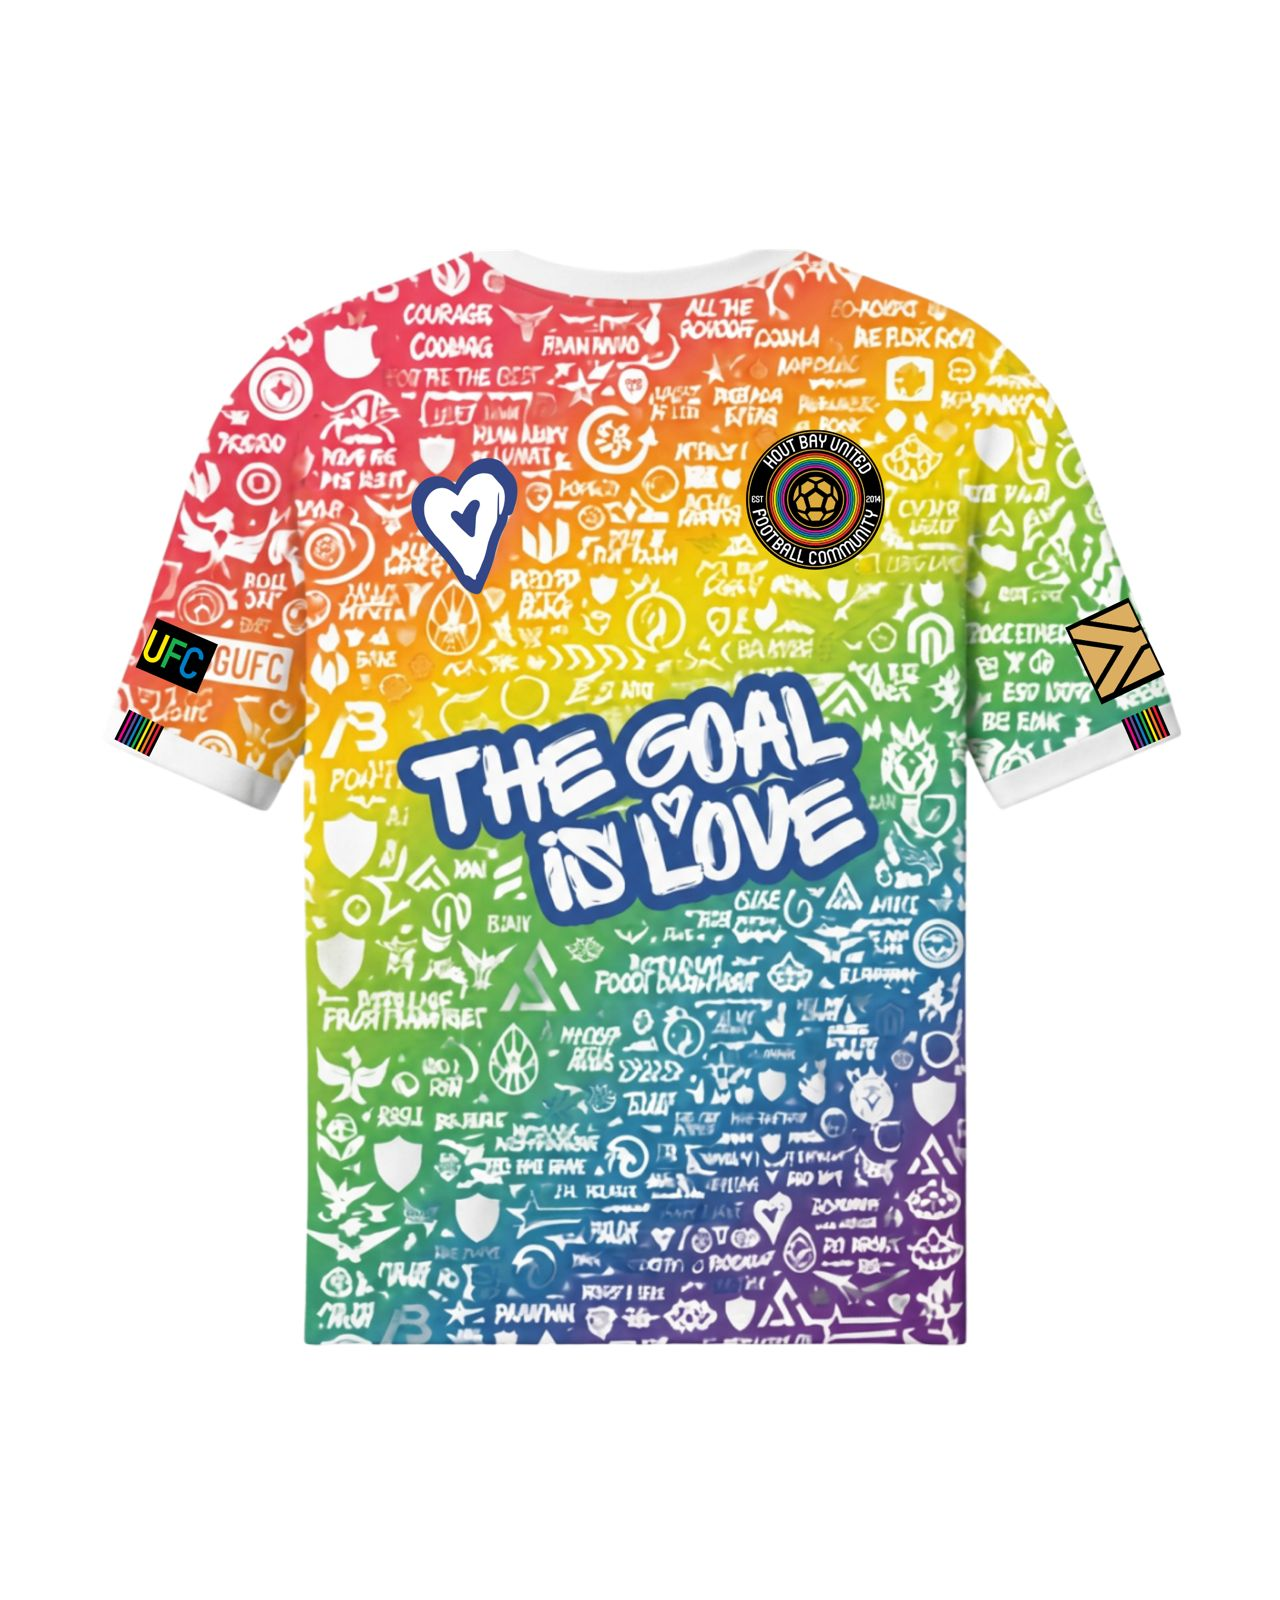
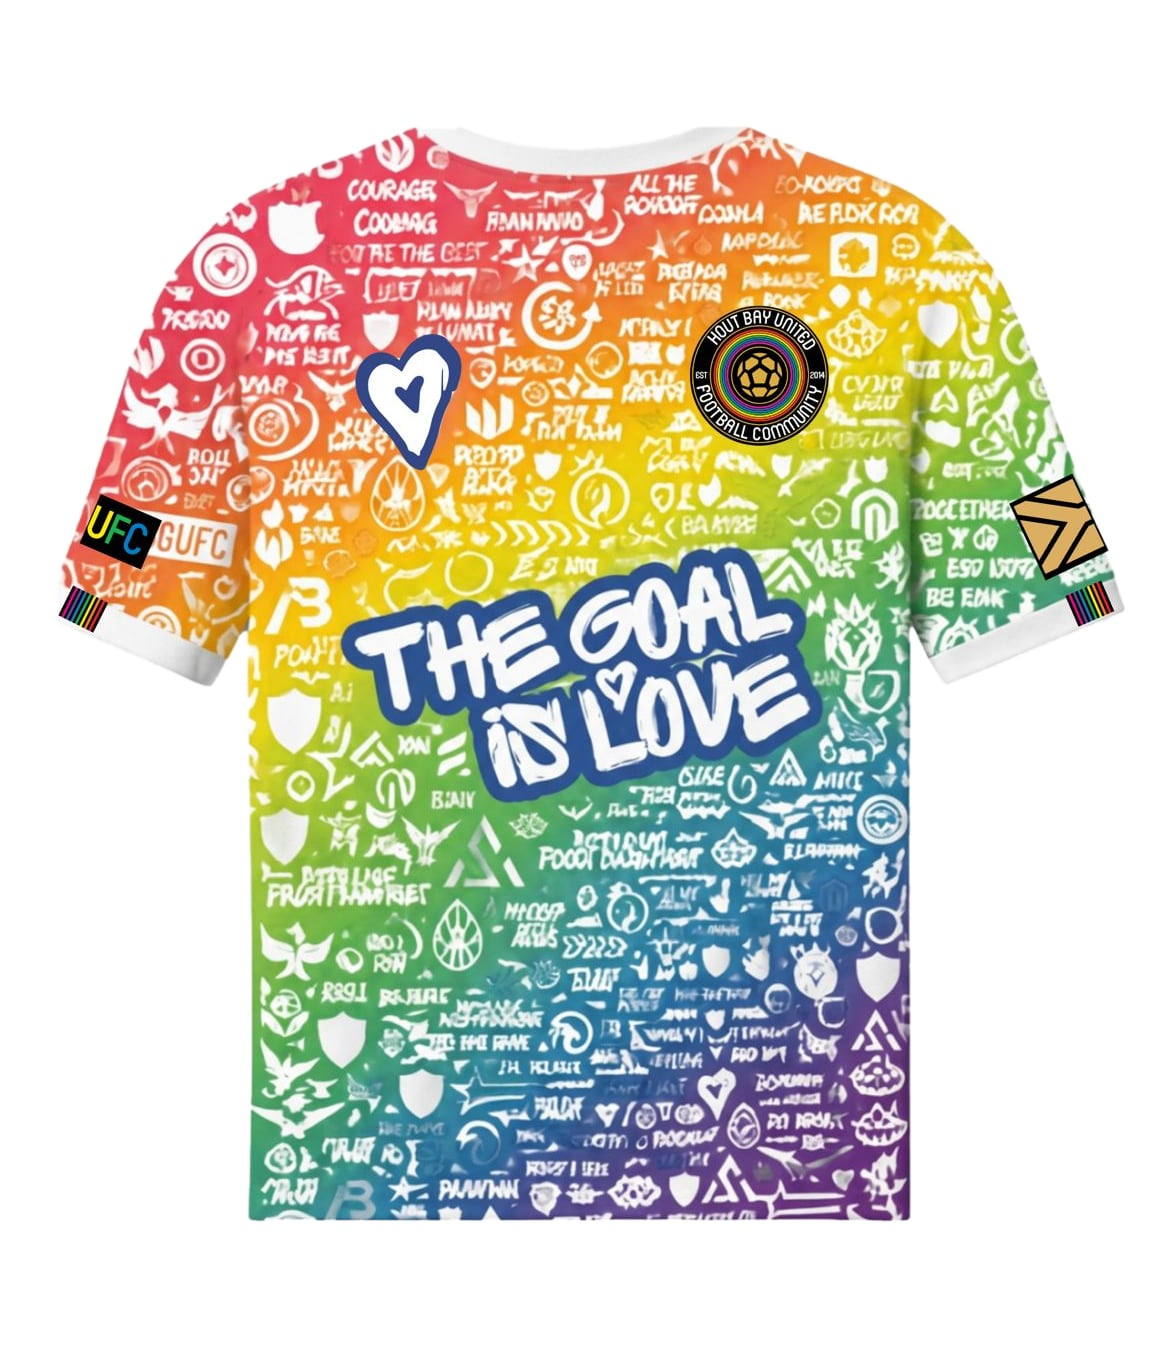
Halve the white margin baked into the hero shirt render
Most of the inset around the hero shirt was never CSS. The 1280x1600 render
carried its own white field: 248px above the shirt, 253px below, 111px left and
99px right, which is 15.5% of the height and 8.7% of the width. Halving the
9px frame padding could not touch it.

Re-cropped from the lossless top-shirt.png source (the same render) to
1174x1349, so each margin is now about half: 126 top, 126 bottom, 56 left,
49 right. The shirt itself is untouched and uncropped, it just sits closer to
the edge of its white box, and the box is shorter so the kit renders around 9%
larger in the hero column.

Encoded progressive 4:2:0 at q85 to match the file it replaces, landing at
211KB against the old 212KB, so the page does not get heavier. The filename is
unchanged, so the src cache buster goes to v=2.

Claude-Session: https://claude.ai/code/session_01GHZHyUJs9HGdwdLtNdXXuE

diff --git a/components/Hero.jsx b/components/Hero.jsx
@@ -150,7 +150,7 @@ export default function Hero({ onJoin, goalLabel, claimed, total, price }) {
           }}
         >
           <img
-            src="/assets/kit-hero-boxed.jpg?v=1"
+            src="/assets/kit-hero-boxed.jpg?v=2"
             alt="The HBUFC The Goal is Love kit, showing how the shirt could look once every square is claimed"
             style={{ display: "block", width: "100%", height: "auto", margin: "0 auto", borderRadius: 16 }}
           />
